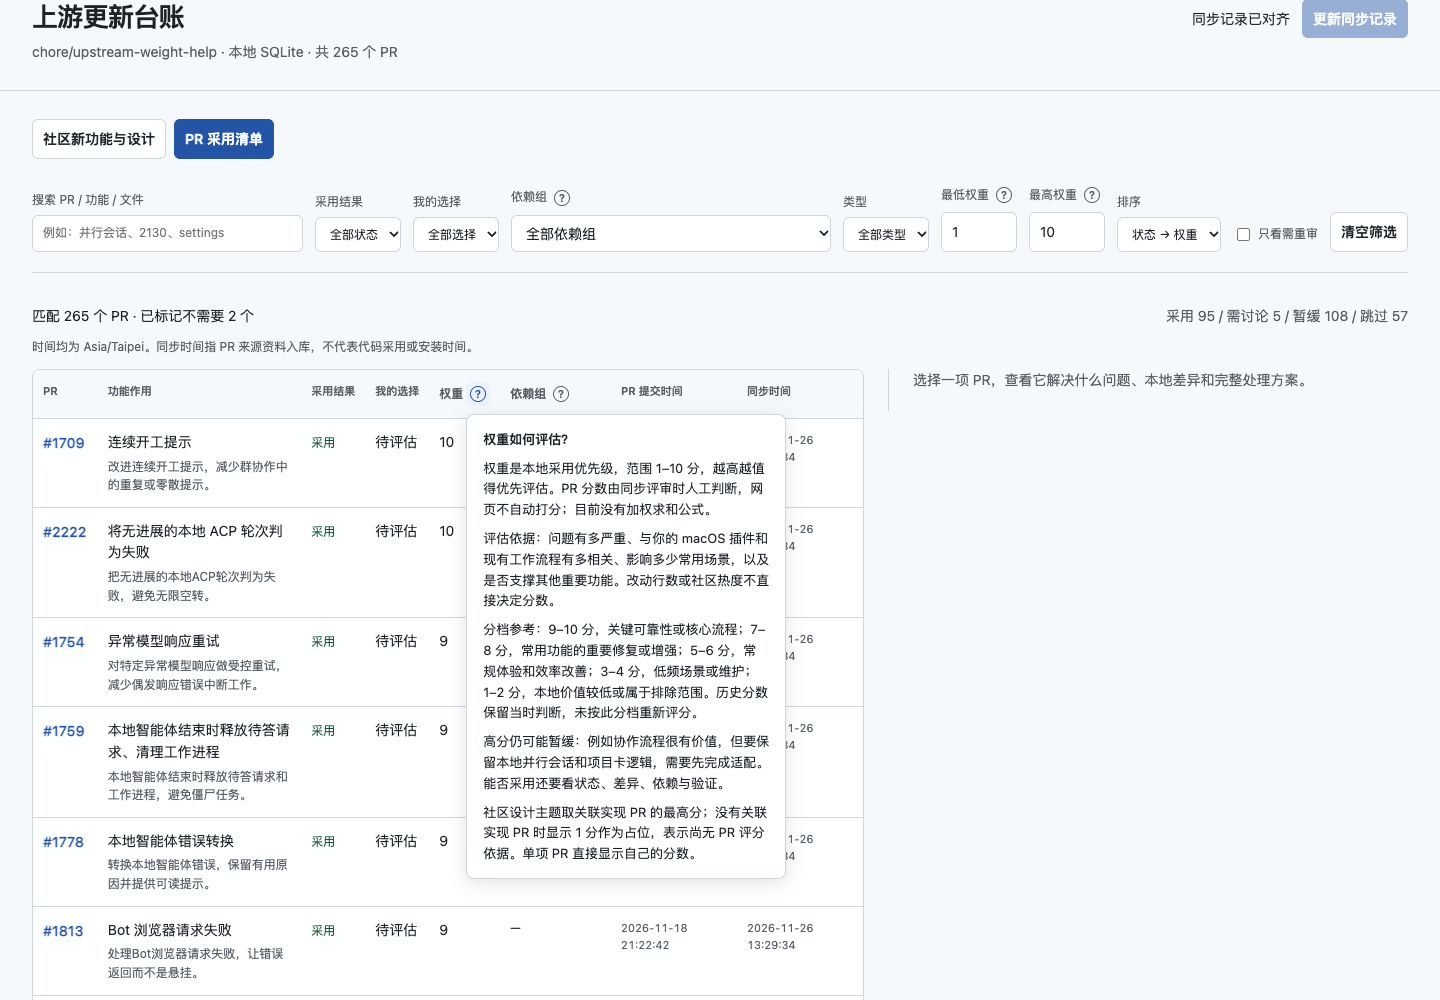
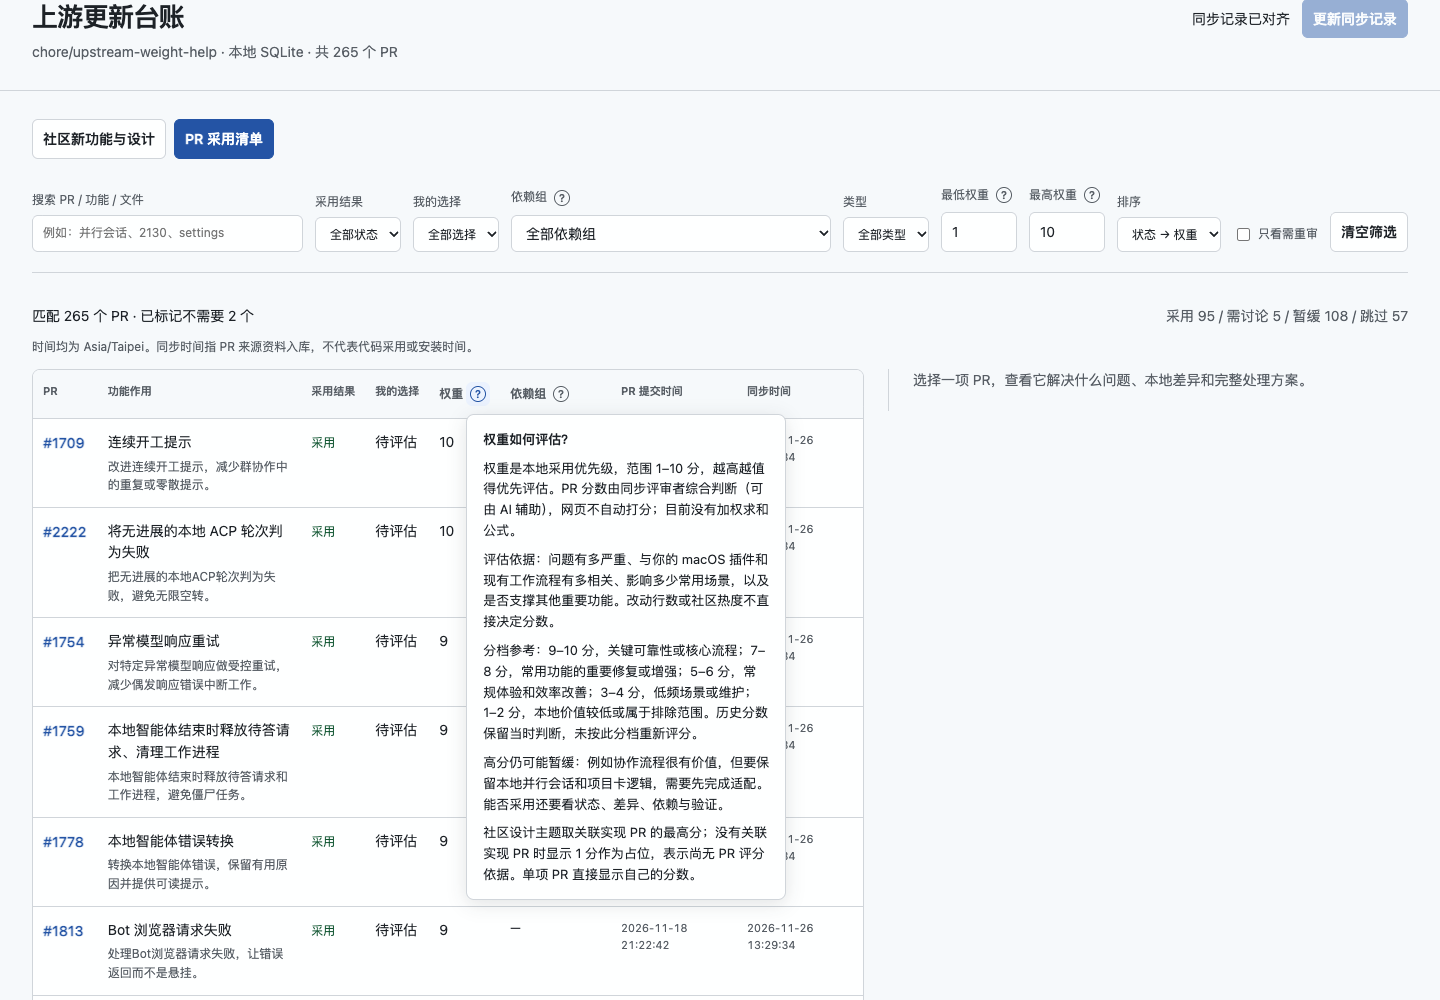
Clarify that sync reviewers may use AI when assigning priorities

Changed region(s): [[0.3125, 0.465, 0.5312, 0.899]]

diff --git a/scripts/upstream-sync/upstream_catalog/assets/index.html b/scripts/upstream-sync/upstream_catalog/assets/index.html
@@ -9,4 +9,4 @@
 <div id="notice" role="status" aria-live="polite"></div><div class="result-line"><p id="summary">正在加载…</p><p id="counts"></p></div>
 <p class="time-note">时间均为 Asia/Taipei。同步时间指 PR 来源资料入库，不代表代码采用或安装时间。</p><div class="workspace"><section class="list" aria-label="PR列表"><div class="table-wrap"><table><thead><tr><th>PR</th><th>功能作用</th><th>采用结果</th><th>我的选择</th><th><span class="field-label">权重<button type="button" class="help-trigger" data-help="weight-help" aria-label="权重评分说明" aria-expanded="false" aria-controls="weight-help" aria-describedby="weight-help"><span class="help-symbol" aria-hidden="true">?</span></button></span></th><th><span class="field-label">依赖组<button type="button" class="help-trigger" data-dependency-help data-help="dependency-help" aria-label="依赖组说明" aria-expanded="false" aria-controls="dependency-help" aria-describedby="dependency-help"><span class="help-symbol" aria-hidden="true">?</span></button></span></th><th title="GitHub创建PR的时间，Asia/Taipei">PR 提交时间</th><th title="PR来源资料写入本地台账的时间，不代表代码采用或安装时间">同步时间</th></tr></thead><tbody id="rows"></tbody></table></div><p id="empty" hidden>没有符合条件的 PR。可以减少筛选条件，或点击“清空筛选”。</p><nav class="pagination" aria-label="分页"><button id="prev" class="secondary">上一页</button><span id="range"></span><button id="next" class="secondary">下一页</button></nav></section>
 <aside id="detail" aria-label="PR详情"><p class="detail-empty">选择一项 PR，查看它解决什么问题、本地差异和完整处理方案。</p></aside></div>
-<details class="storage"><summary>来源、存储与使用边界</summary><p id="storage"></p><p>页面标记只更新台账；不会合并代码、删除已装功能或重启 DSH。采用结果和“我的选择”独立保存。点击“更新同步记录”写入本同步分支的 scripts/upstream-sync/upstream-changelog.md，不自动提交或推送。</p></details></section></main><div id="dependency-help" class="help-popover" role="tooltip" hidden><strong>依赖组是什么意思？</strong><p>把同一功能、需要配套适配或验证的 PR 归到一组，方便安排处理顺序。</p><p>例如 G16 是“设置导航、搜索与组件入口”。</p><p>同组不等于必须全部合入；具体前置关系和处理顺序，请看各 PR 的原因与完整解决方式。</p></div><div id="weight-help" class="help-popover" role="tooltip" hidden><strong>权重如何评估？</strong><p>权重是本地采用优先级，范围 1–10 分，越高越值得优先评估。PR 分数由同步评审时人工判断，网页不自动打分；目前没有加权求和公式。</p><p>评估依据：问题有多严重、与你的 macOS 插件和现有工作流程有多相关、影响多少常用场景，以及是否支撑其他重要功能。改动行数或社区热度不直接决定分数。</p><p>分档参考：9–10 分，关键可靠性或核心流程；7–8 分，常用功能的重要修复或增强；5–6 分，常规体验和效率改善；3–4 分，低频场景或维护；1–2 分，本地价值较低或属于排除范围。历史分数保留当时判断，未按此分档重新评分。</p><p>高分仍可能暂缓：例如协作流程很有价值，但要保留本地并行会话和项目卡逻辑，需要先完成适配。能否采用还要看状态、差异、依赖与验证。</p><p>社区设计主题取关联实现 PR 的最高分；没有关联实现 PR 时显示 1 分作为占位，表示尚无 PR 评分依据。单项 PR 直接显示自己的分数。</p></div></body></html>
+<details class="storage"><summary>来源、存储与使用边界</summary><p id="storage"></p><p>页面标记只更新台账；不会合并代码、删除已装功能或重启 DSH。采用结果和“我的选择”独立保存。点击“更新同步记录”写入本同步分支的 scripts/upstream-sync/upstream-changelog.md，不自动提交或推送。</p></details></section></main><div id="dependency-help" class="help-popover" role="tooltip" hidden><strong>依赖组是什么意思？</strong><p>把同一功能、需要配套适配或验证的 PR 归到一组，方便安排处理顺序。</p><p>例如 G16 是“设置导航、搜索与组件入口”。</p><p>同组不等于必须全部合入；具体前置关系和处理顺序，请看各 PR 的原因与完整解决方式。</p></div><div id="weight-help" class="help-popover" role="tooltip" hidden><strong>权重如何评估？</strong><p>权重是本地采用优先级，范围 1–10 分，越高越值得优先评估。PR 分数由同步评审者综合判断（可由 AI 辅助），网页不自动打分；目前没有加权求和公式。</p><p>评估依据：问题有多严重、与你的 macOS 插件和现有工作流程有多相关、影响多少常用场景，以及是否支撑其他重要功能。改动行数或社区热度不直接决定分数。</p><p>分档参考：9–10 分，关键可靠性或核心流程；7–8 分，常用功能的重要修复或增强；5–6 分，常规体验和效率改善；3–4 分，低频场景或维护；1–2 分，本地价值较低或属于排除范围。历史分数保留当时判断，未按此分档重新评分。</p><p>高分仍可能暂缓：例如协作流程很有价值，但要保留本地并行会话和项目卡逻辑，需要先完成适配。能否采用还要看状态、差异、依赖与验证。</p><p>社区设计主题取关联实现 PR 的最高分；没有关联实现 PR 时显示 1 分作为占位，表示尚无 PR 评分依据。单项 PR 直接显示自己的分数。</p></div></body></html>

diff --git a/scripts/upstream-sync/README.md b/scripts/upstream-sync/README.md
@@ -38,7 +38,7 @@ python3 scripts/upstream-sync/upstream-catalog.py serve --port 4179
 
 筛选框、表格和PR详情的依赖组统一显示“编号 · 中文名称”，例如“G01 · 测试基线、翻译与测试维护”和“G16 · 设置导航、搜索与组件入口”。中文名称直接取自scripts/upstream-sync/docs/upstream-remaining-review.md的分组标题，由/api/meta的groupNames提供；数据库及筛选参数仍使用Gxx。未分组显示“—”，缺少名称的编号明确显示“名称待补齐”。
 
-“权重”旁的圆圈问号解释评分：PR的1–10分是同步评审给出的本地采用优先级，当前没有自动计算公式。综合严重性、本地相关性、常用场景影响与依赖价值判断，分数越高越值得优先评估；分档为9–10关键可靠性/核心流程、7–8重要修复/增强、5–6常规体验/效率、3–4低频/维护、1–2低相关/排除范围。分档用于理解和后续评审，历史分数未重新计算。高分不代表能直接合入，需结合状态、差异和验证判断。社区设计主题取关联实现PR最高分，无关联PR时1分是占位。社区表头、PR表头和最低/最高筛选均可悬停、点击或键盘聚焦查看，Esc/点击外部关闭。
+“权重”旁的圆圈问号解释评分：PR的1–10分是同步评审者综合判断（可由AI辅助）的本地采用优先级，当前没有自动计算公式。综合严重性、本地相关性、常用场景影响与依赖价值判断，分数越高越值得优先评估；分档为9–10关键可靠性/核心流程、7–8重要修复/增强、5–6常规体验/效率、3–4低频/维护、1–2低相关/排除范围。分档用于理解和后续评审，历史分数未重新计算。高分不代表能直接合入，需结合状态、差异和验证判断。社区设计主题取关联实现PR最高分，无关联PR时1分是占位。社区表头、PR表头和最低/最高筛选均可悬停、点击或键盘聚焦查看，Esc/点击外部关闭。
 
 “依赖组”将同一功能、需要配套适配或验证的PR归到一组，用于安排处理顺序；例如G16为设置导航、搜索与组件入口。同组不表示必须全部合入，具体前置关系看每项PR的原因和完整解决方式。筛选栏与表格表头均有圆圈问号：悬停、点击或键盘聚焦可看说明，Esc或点击外部关闭。
 

diff --git a/.agents/skills/sync-upstream/SKILL.md b/.agents/skills/sync-upstream/SKILL.md
@@ -75,7 +75,7 @@ PR2130 的 `.27-upstream` 历史实现未通过完整协作流程复核：正式
 
 ## 权重口径与页面说明
 
-权重是1–10分的本地采用优先级，当前由同步评审人工判断，没有自动加权公式。结合严重性、本地macOS插件/工作流程相关性、常用场景影响和依赖价值；行数与热度不直接决定分数。参考分档：9–10关键可靠性/核心流程，7–8重要修复或增强，5–6常规体验和效率，3–4低频或维护，1–2低相关或排除范围。历史分数保留当时判断，不声称已按统一公式重新评分；重评应记录理由和时间，不能只为符合说明而批量改分。
+权重是1–10分的本地采用优先级，当前由同步评审者综合判断（可由AI辅助），没有自动加权公式。结合严重性、本地macOS插件/工作流程相关性、常用场景影响和依赖价值；行数与热度不直接决定分数。参考分档：9–10关键可靠性/核心流程，7–8重要修复或增强，5–6常规体验和效率，3–4低频或维护，1–2低相关或排除范围。历史分数保留当时判断，不声称已按统一公式重新评分；重评应记录理由和时间，不能只为符合说明而批量改分。
 
 高分不代表可直接合入，工程依赖、设计冲突及验证缺口仍由采用状态和解法表达。社区主题显示关联实现PR的最高分，无关联实现PR时1分是占位，不能称已评估为低价值。管理页的权重表头和最低/最高筛选旁保留圆圈问号，说明上述口径，支持鼠标与键盘；后续评分规则变化时同步更新说明。
 
